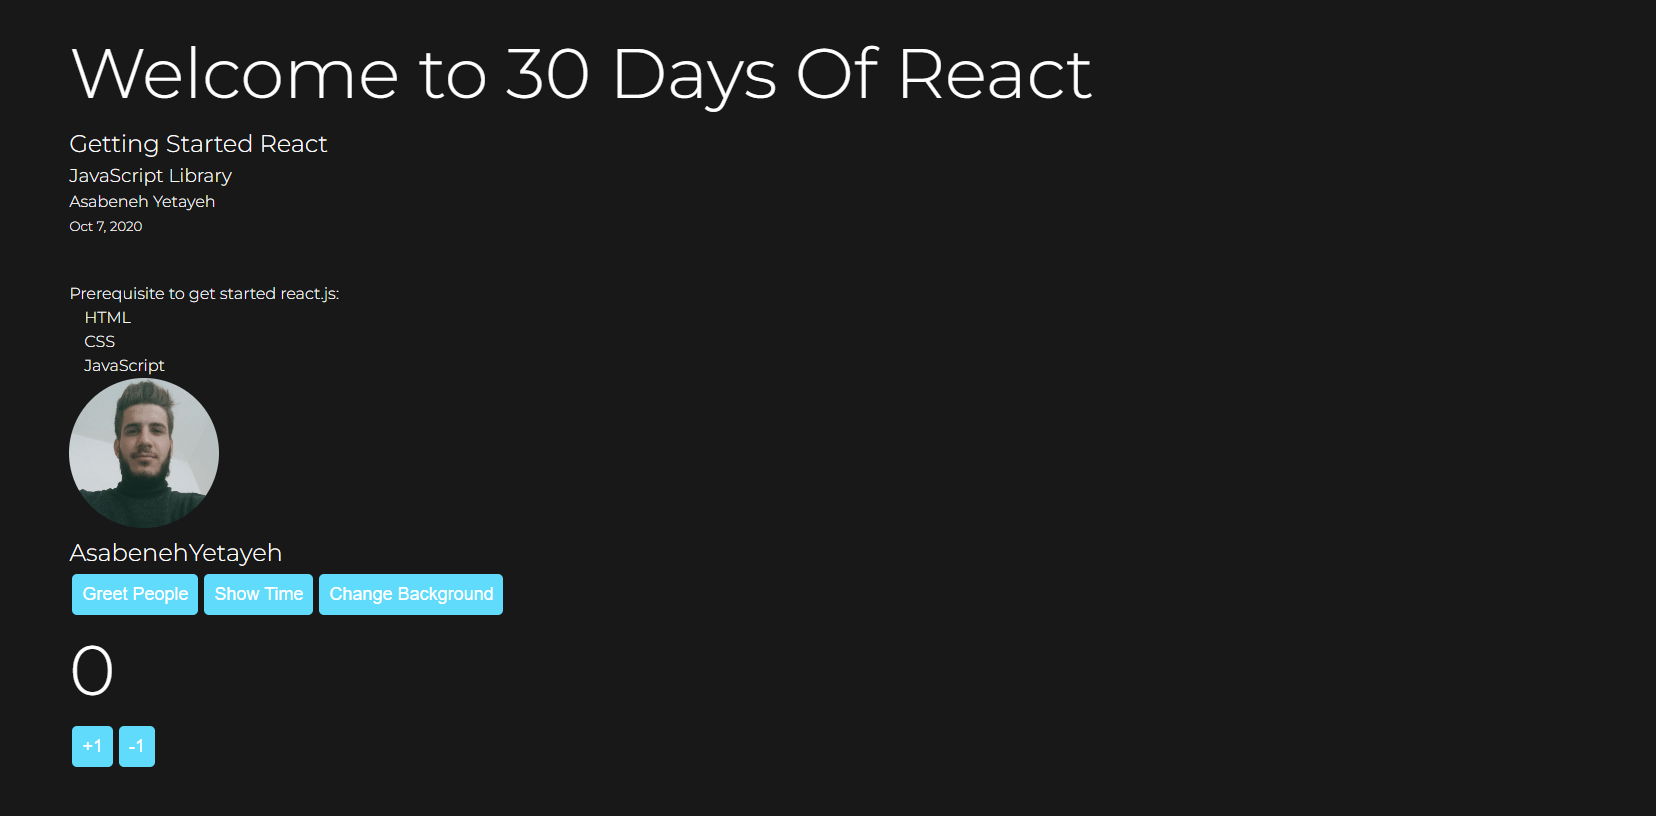
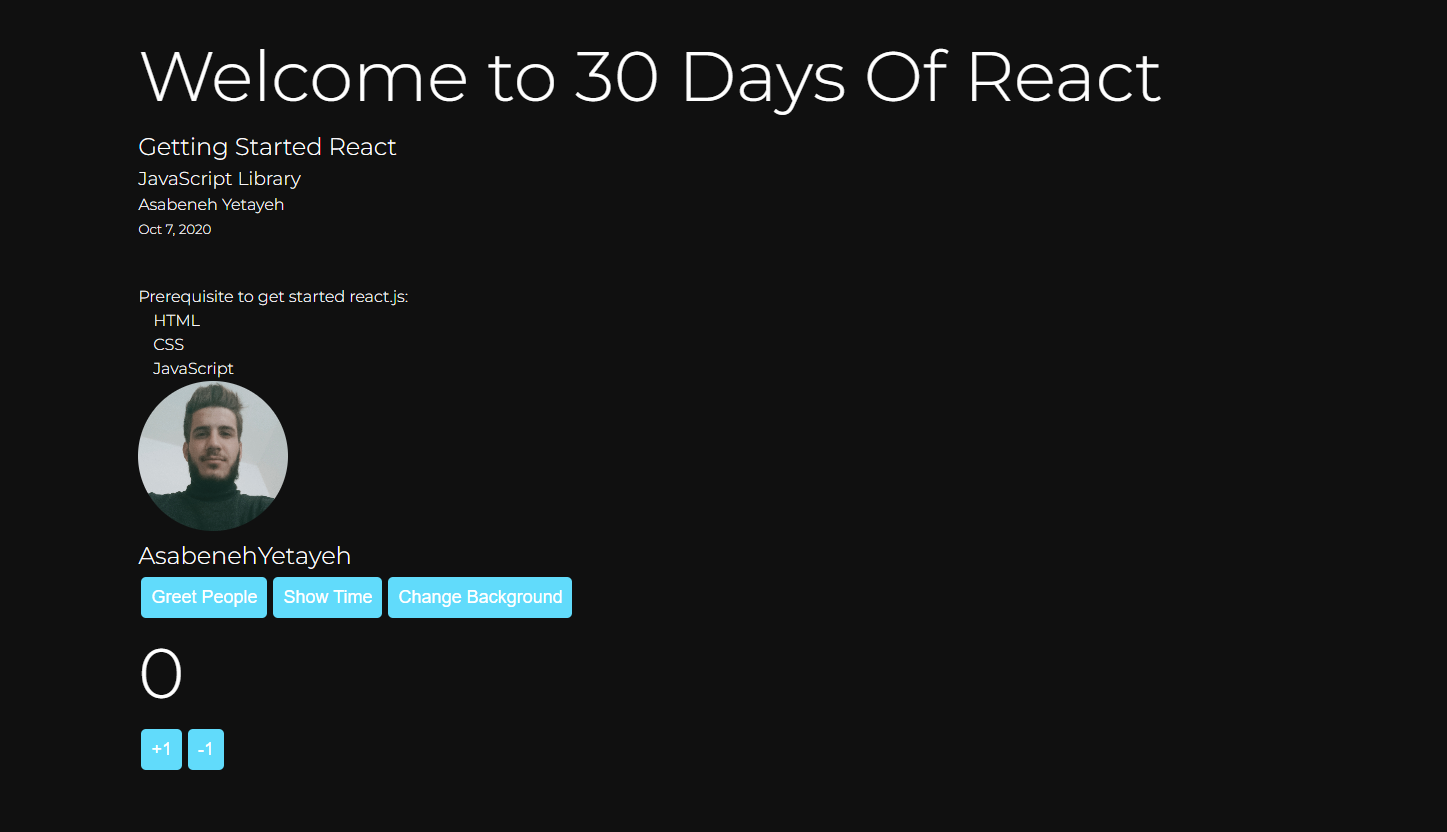
update day 8

Changed region(s): [[0.0311, 0.337, 0.4043, 0.9498], [0.0311, 0.0613, 0.8086, 0.1532], [0.0311, 0.1532, 0.2799, 0.3064]]

diff --git a/days/day_08.md b/days/day_08.md
@@ -35,105 +35,7 @@ Bu, setState() yöntemi kullanılarak yapılır. setState() yöntemi, bileşen d
 1. Use React state to change the background of the page. You can use this technique to apply a dark mode for your portfolio.
 
 ```js
-// style.css
-* {
-    box-sizing: border-box;
-    padding: 0;
-    margin: 0;
-    color:#fff
-  }
-
-  html,
-  body {
-    height: 100%;
-    line-height: 1.5;
-    font-family: 'Montserrat';
-    font-weight: 300;
-    color: black;
-  }
-
-  .root {
-    min-height: 100%;
-    position: relative;
-  }
-
-  .header-wrapper,
-  .main-wrapper,
-  .footer-wrapper {
-    width: 85%;
-    margin: auto;
-  }
-
-  .header-wrapper,
-  .main-wrapper {
-    padding: 10px;
-    margin: 2px auto;
-  }
-
-  h1 {
-    font-size: 70px;
-    font-weight: 300;
-  }
-
-  h2,
-  h3 {
-    font-weight: 300;
-  }
-
-  header {
-    /* background-color: #61dbfb; */
-    padding: 10px;
-    background: #6cf;
-
-  }
-
-  main {
-    padding: 10px;
-    padding-bottom: 60px;
-    /* Height of the footer */
-  }
-
-  ul {
-    margin-left: 15px;
-  }
-
-  ul li {
-    list-style: none;
-  }
-
-  footer {
-    position: absolute;
-    bottom: 0;
-    width: 100%;
-    height: 60px;
-    /* Height of the footer */
-     background: #6cf; 
-  }
-
-  .footer-wrapper {
-    width: 200px;
-    height: 200px;
-    font-weight: 400;
-    text-align: center;
-    line-height: 60px;
-  }
-  img{
-    width: 150px;
-    height: 150px;
-    object-fit: cover;
-    border-radius: 50%;
-    object-position: 50% 37%;
-  }
-  img{
-    width: 150px;
-  }
-
-  .Footer{
-    background-color: #6cf;
-  }
-  
-  // index.js
-
+// index.js
 
 import React from "react";
 import { createRoot } from 'react-dom/client';
@@ -172,11 +74,6 @@ const buttonStyles = {
 
 // class based component
 class Header extends React.Component {
-  constructor(props) {
-    super(props)
-    // the code inside the constructor run before any other code
-    this.state=props.state
-  }
   render() {
     console.log(this.props.data)
     const {
@@ -188,7 +85,7 @@ class Header extends React.Component {
     } = this.props.data
 
     return (
-      <header  style={{backgroundColor:this.props.state.backgroundColor,color:this.props.state.backgroundColor}}>
+      <header  style={{backgroundColor:this.props.state.backgroundColor,color:this.props.state.color}}>
         <div className='header-wrapper'>
           <h1>{welcome}</h1>
           <h2>{title}</h2>
@@ -216,11 +113,6 @@ const Count = ({ count, addOne, minusOne }) => (
 // TechList Component
 // class base component
 class TechList extends React.Component {
-  constructor(props) {
-    super(props)
-    this.state=props.state
-
-  }
   render() {
     const { techs } = this.props
     const techsFormatted = techs.map((tech) => <li key={tech}>{tech}</li>)
@@ -276,14 +168,10 @@ class Main extends React.Component {
 // Footer Component
 // Class component
 class Footer extends React.Component {
-  constructor(props) {
-    super(props)
-    this.state=props.state
-
-  }
+  
   render() {
     return (
-      <footer  style={{backgroundColor:this.props.state.backgroundColor,color:this.props.state.backgroundColor}}>
+      <footer  style={{backgroundColor:this.props.state.backgroundColor,color:this.props.state.color}}>
         <div className='footer-wrapper'>
           <p>Copyright {this.props.date.getFullYear()}</p>
         </div>
@@ -296,9 +184,8 @@ class App extends React.Component {
   state = {
     count: 0,
     styles:{
-      backgroundColor: '',
-      color: '',
-    
+      backgroundColor:'',    
+      color:'',    
     }
   }
   showDate = (time) => {
@@ -337,10 +224,10 @@ class App extends React.Component {
     alert('Welcome to 30 Days Of React Challenge, 2020')
   }
   changeBackground = () => {
-    if(this.state.backgroundColor === "" &&this.state.color===""){
-      this.setState({backgroundColor:"#181818",color:"red"})
+    if(this.state.backgroundColor===""){
+      this.setState({backgroundColor:"#101010", color:"#fff"})
     }else{
-      this.setState({backgroundColor:"",color:""})
+      this.setState({backgroundColor:"", color:""})
     }
   }
   render() {
@@ -358,7 +245,7 @@ class App extends React.Component {
     // copying the author from data object to user variable using spread operator
     const user = { ...data.author, image: nevzat }
     return (
-      <div className='app'  style={{backgroundColor:this.state.backgroundColor}}>
+      <div className='app'  style={{backgroundColor:this.state.backgroundColor ,color:this.state.color}}>
         {this.state.backgroundColor}
         <Header data={data}  state={this.state}/>
         <Main
@@ -376,10 +263,10 @@ class App extends React.Component {
     )
   }
 }
-
   const domNode = document.getElementById('root');
   const root = createRoot(domNode);
   root.render(<App />);
+
 ```
 
 <img src="../src/image/day8_level2_1.png"/>
